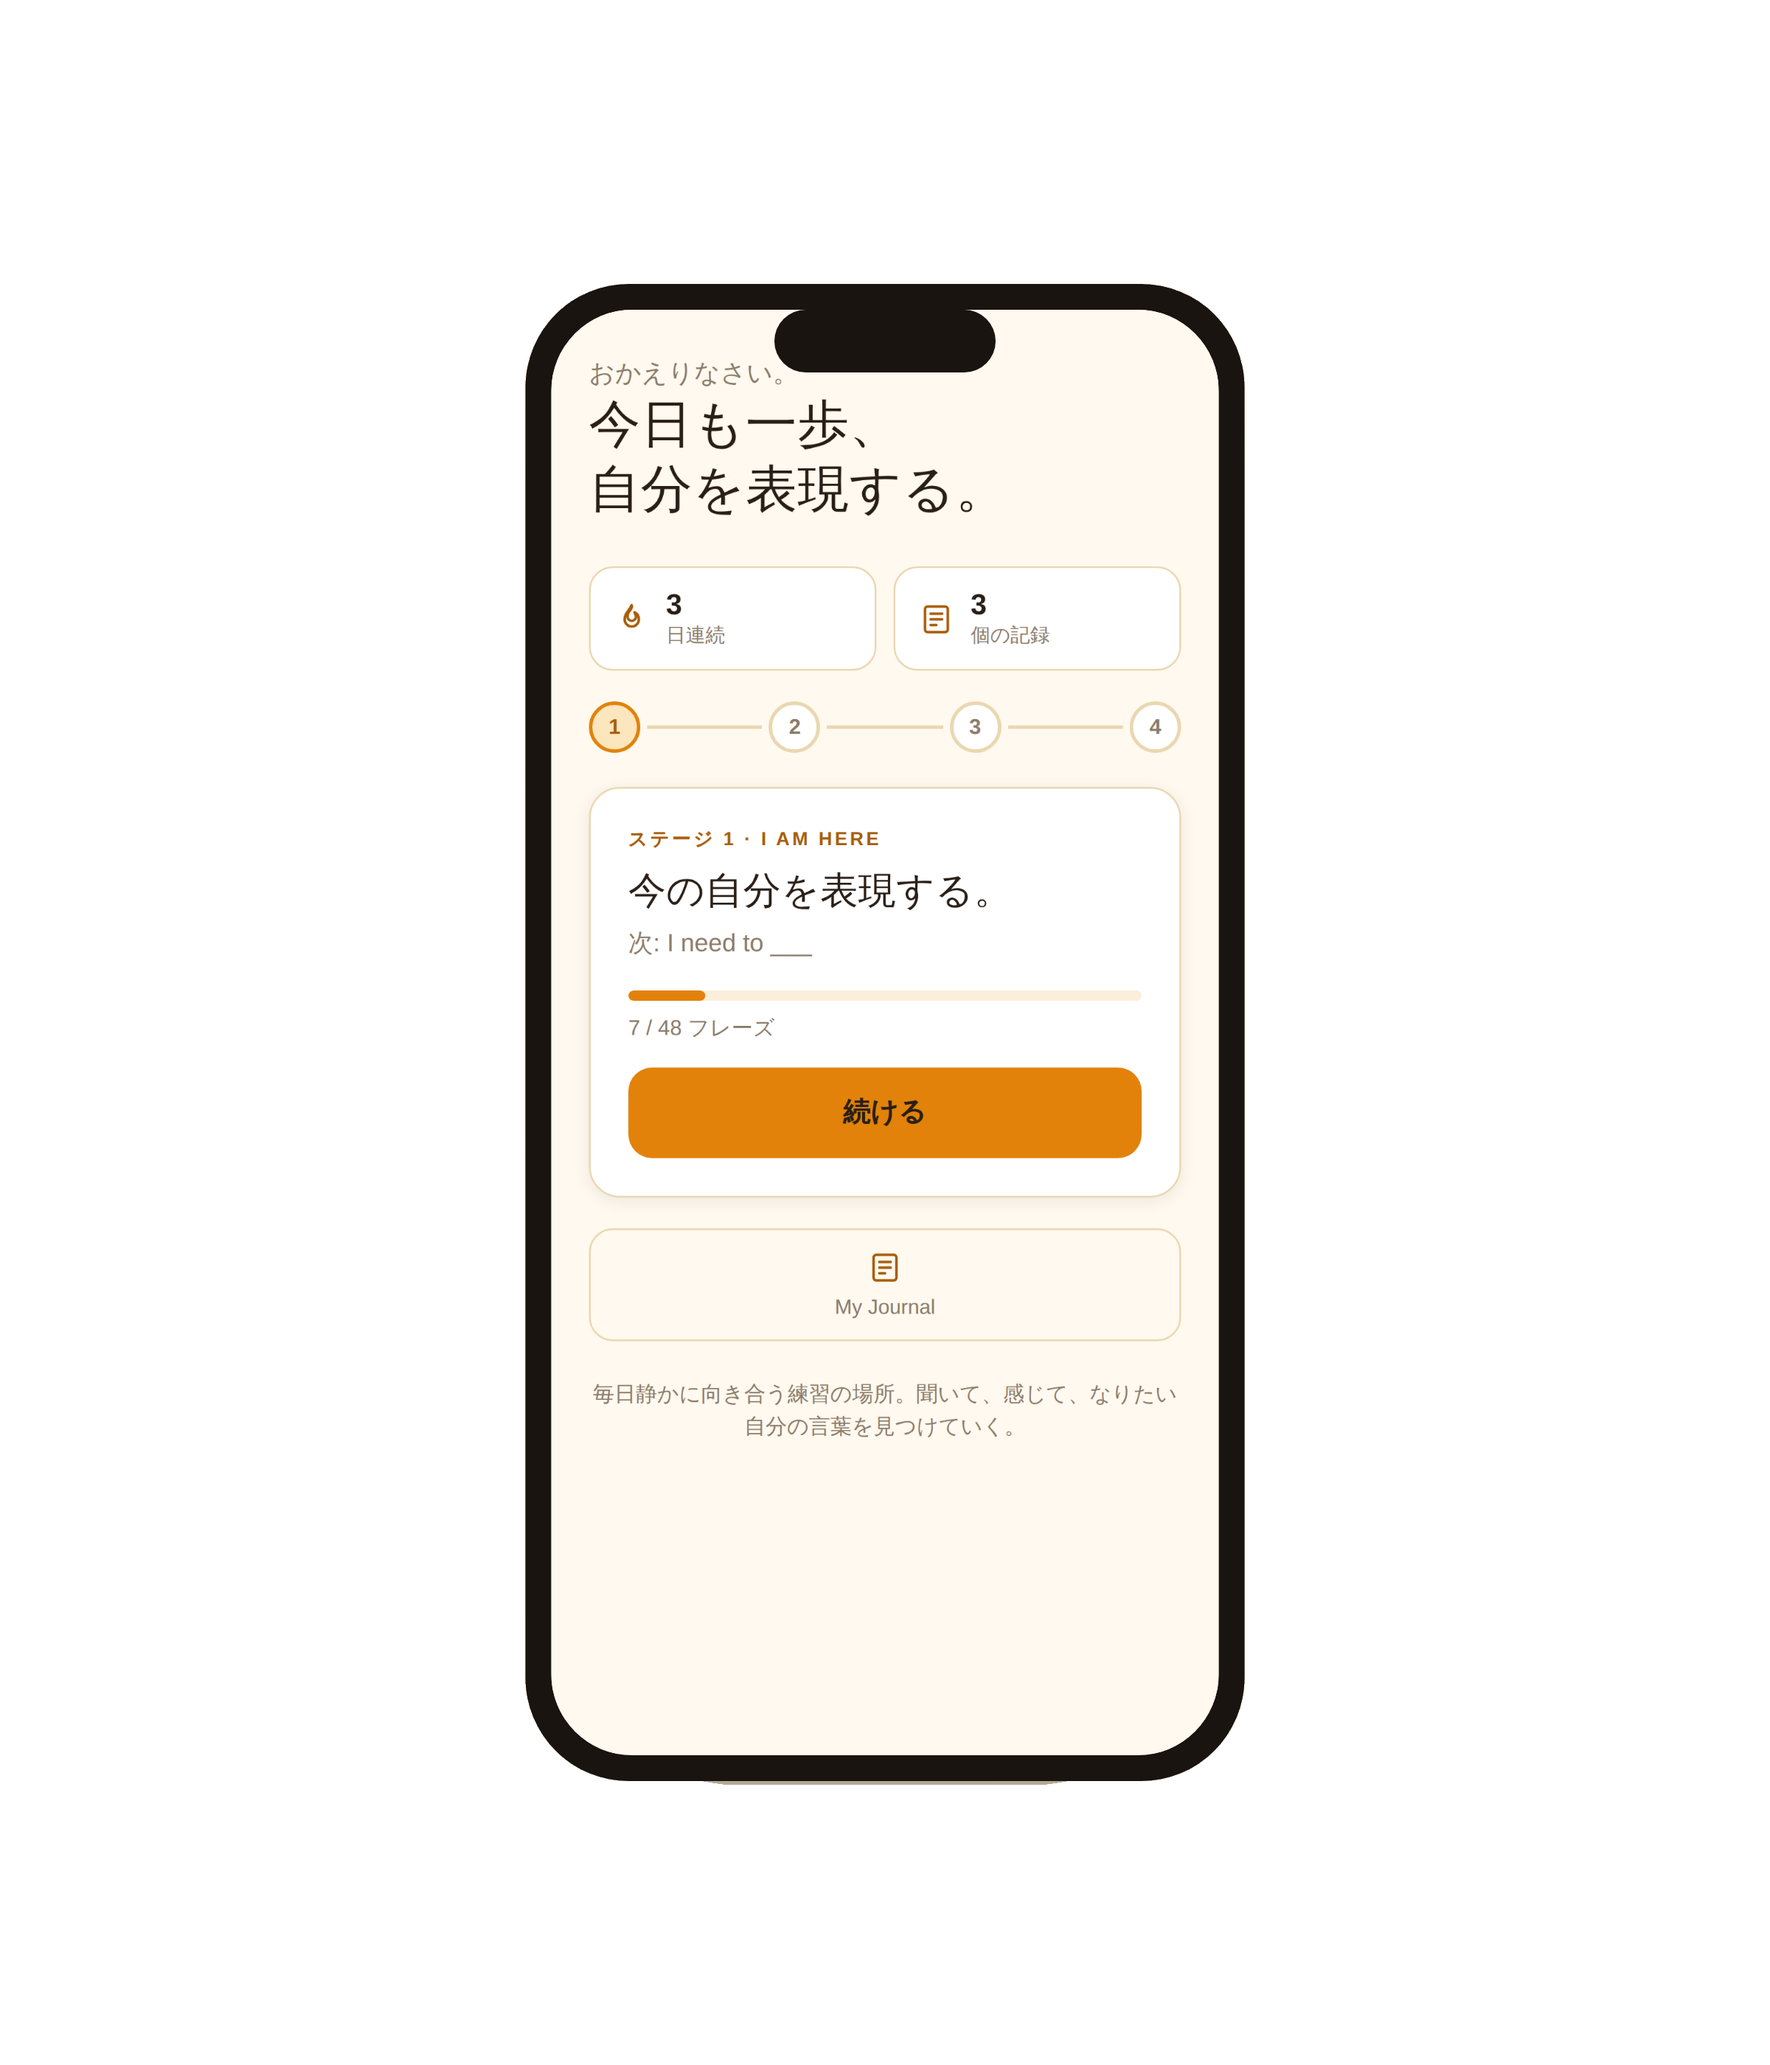
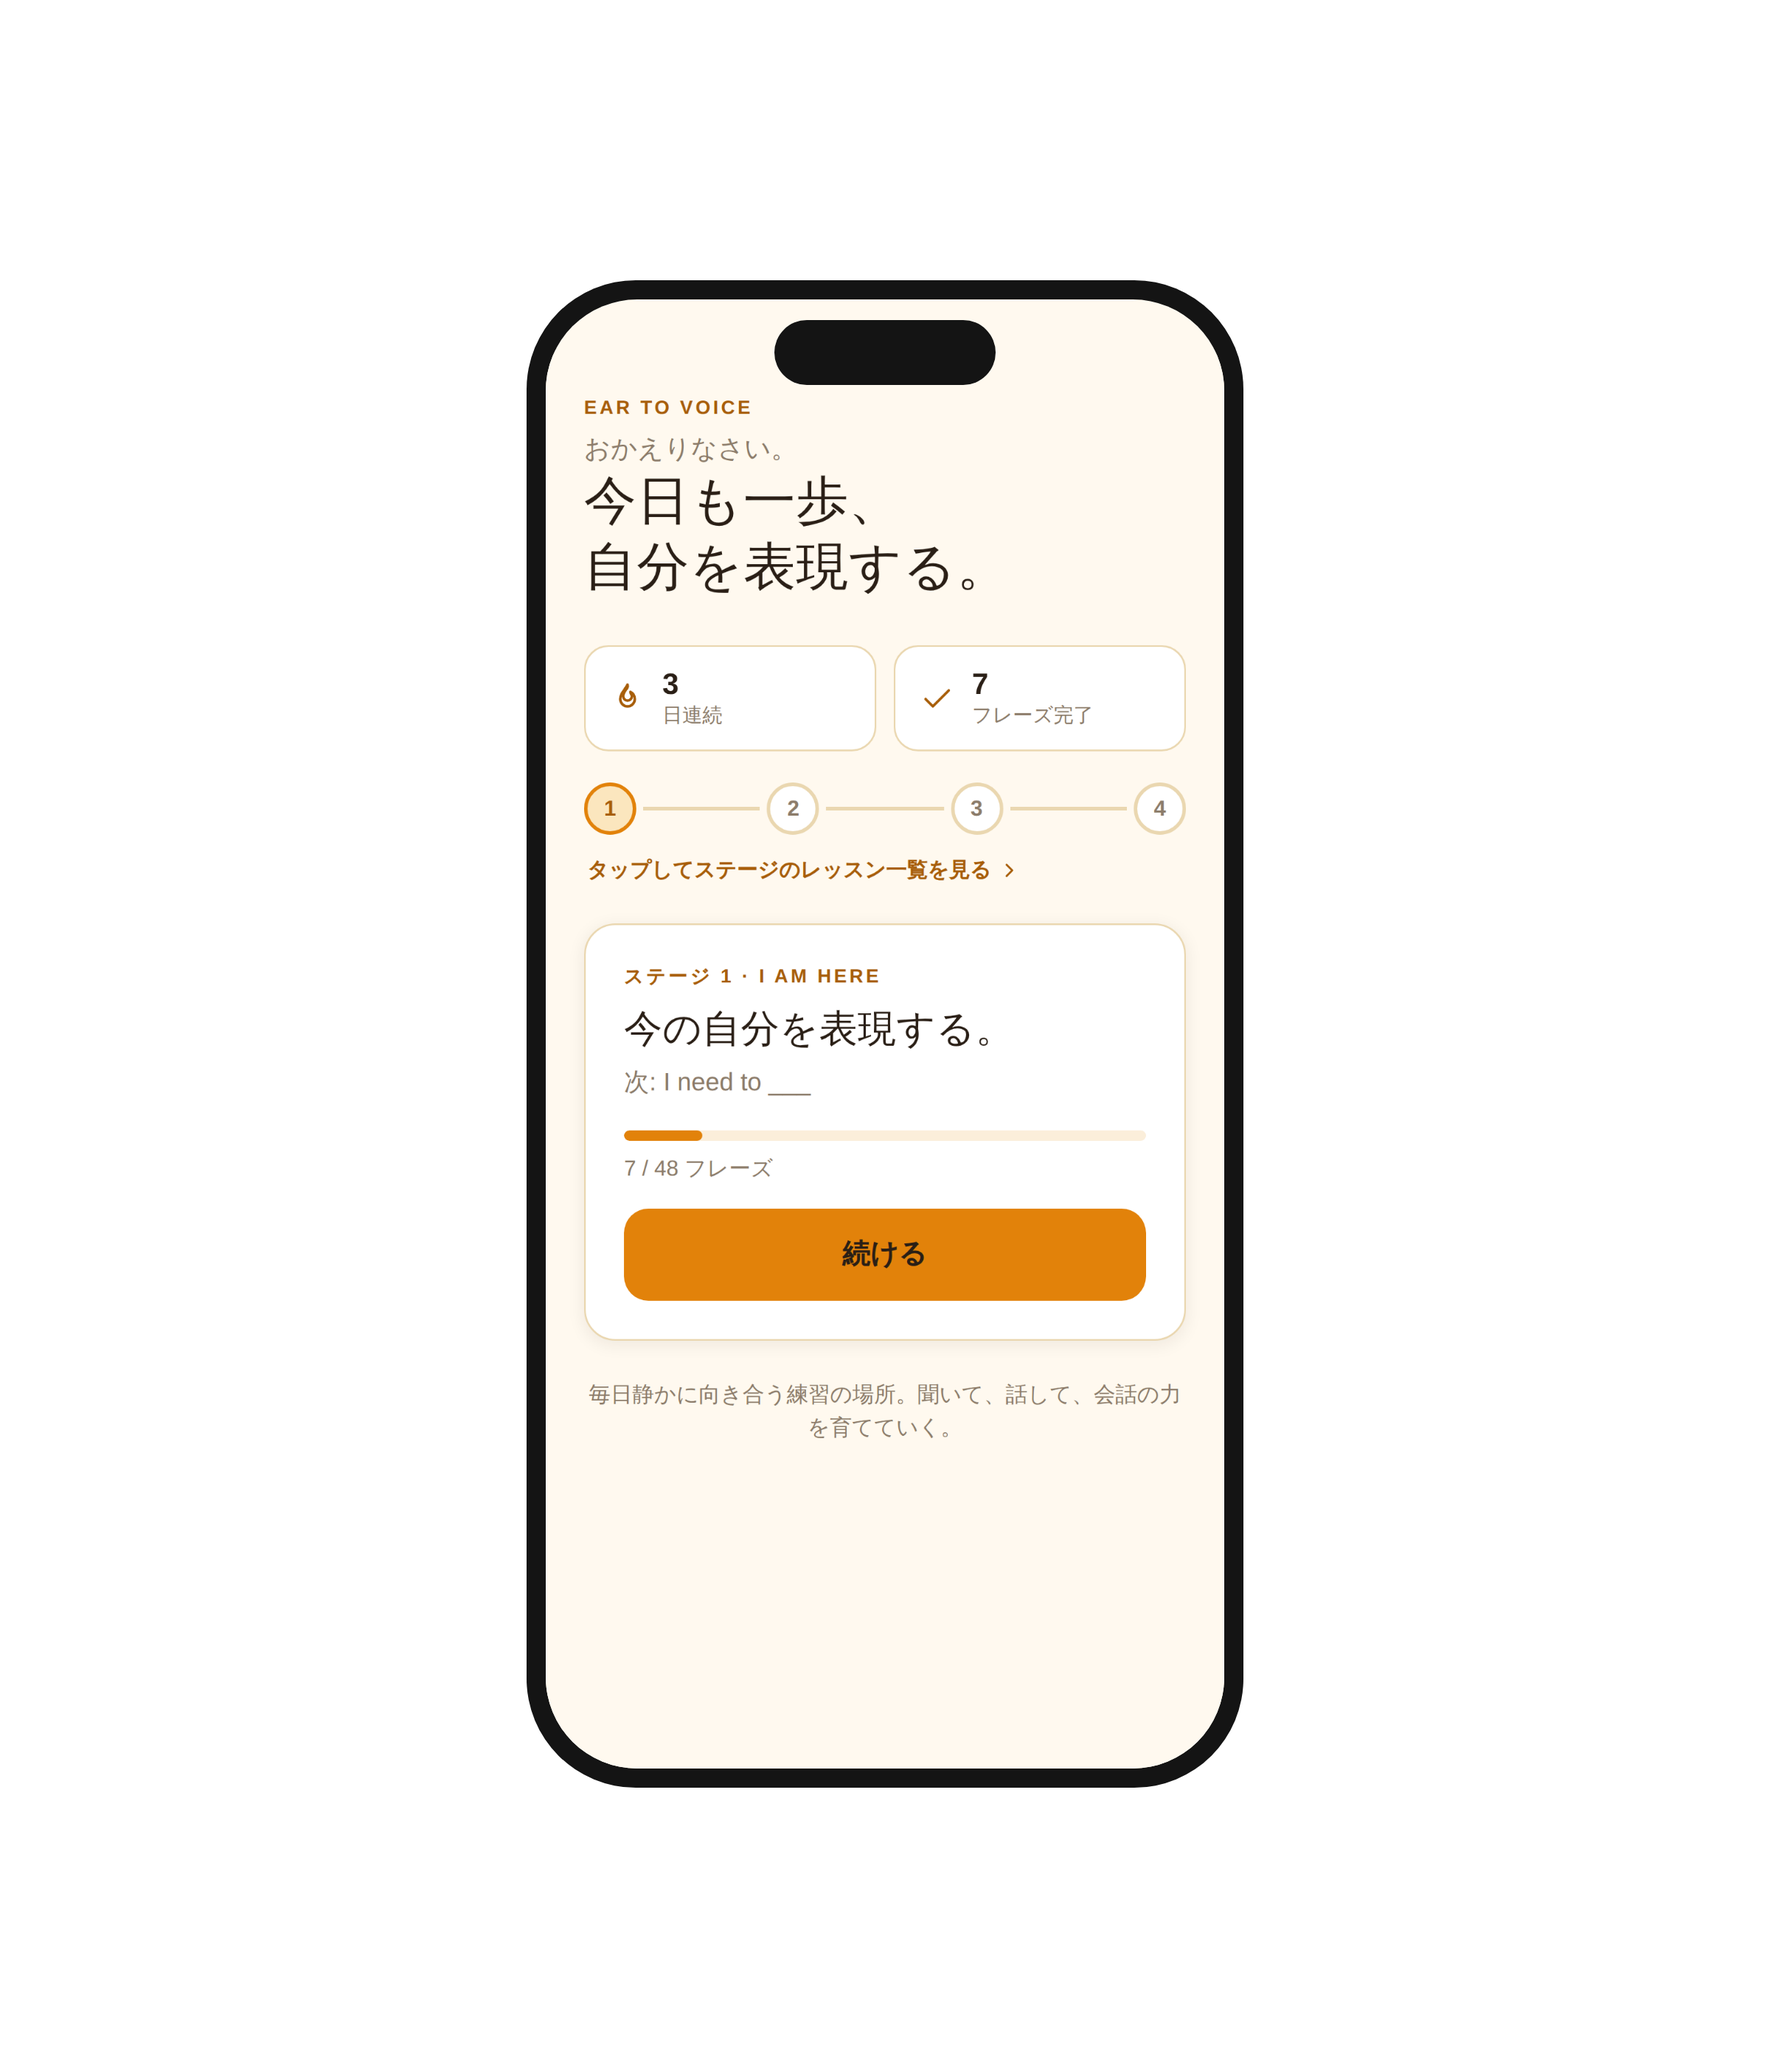
Replace app mockups with current screens; soften native-audio claim
Both mockup images showed the app as it was before the redesign - the
hero featured the removed My Journal button and 記録 stat, and the trio
led with the removed Make it yours screen plus the My Journal page.
Regenerated both from the live app at the same sizes with the same
transparent phone-frame treatment: hero shows the new home (streak +
フレーズ完了), trio shows the Tips step, the new Question step ("How
are you feeling today?", matching the PRODUCT example card), and home.

Also reworded the PRICE line ネイティブ音声 to ネイティブの発音で学べる
音声, since the audio is synthesized rather than a native speaker
recording.

Claude-Session: https://claude.ai/code/session_01KaMJh9P3syFoYuPRcdgRE8

Changed region(s): [[0.2812, 0.1243, 0.7188, 0.8079], [0.3125, 0.8389, 0.6875, 0.87], [0.6562, 0.1554, 0.6875, 0.1864]]

diff --git a/self-expression/index.html b/self-expression/index.html
@@ -317,7 +317,7 @@ class Component extends DCLogic {
       includes: [
         '48個の自己表現フレーズ',
         '14個の質問フレーズ',
-        'ネイティブ音声',
+        'ネイティブの発音で学べる音声',
         '発音ポイント解説',
         '音のつながり解説',
         'Shadowing練習',
